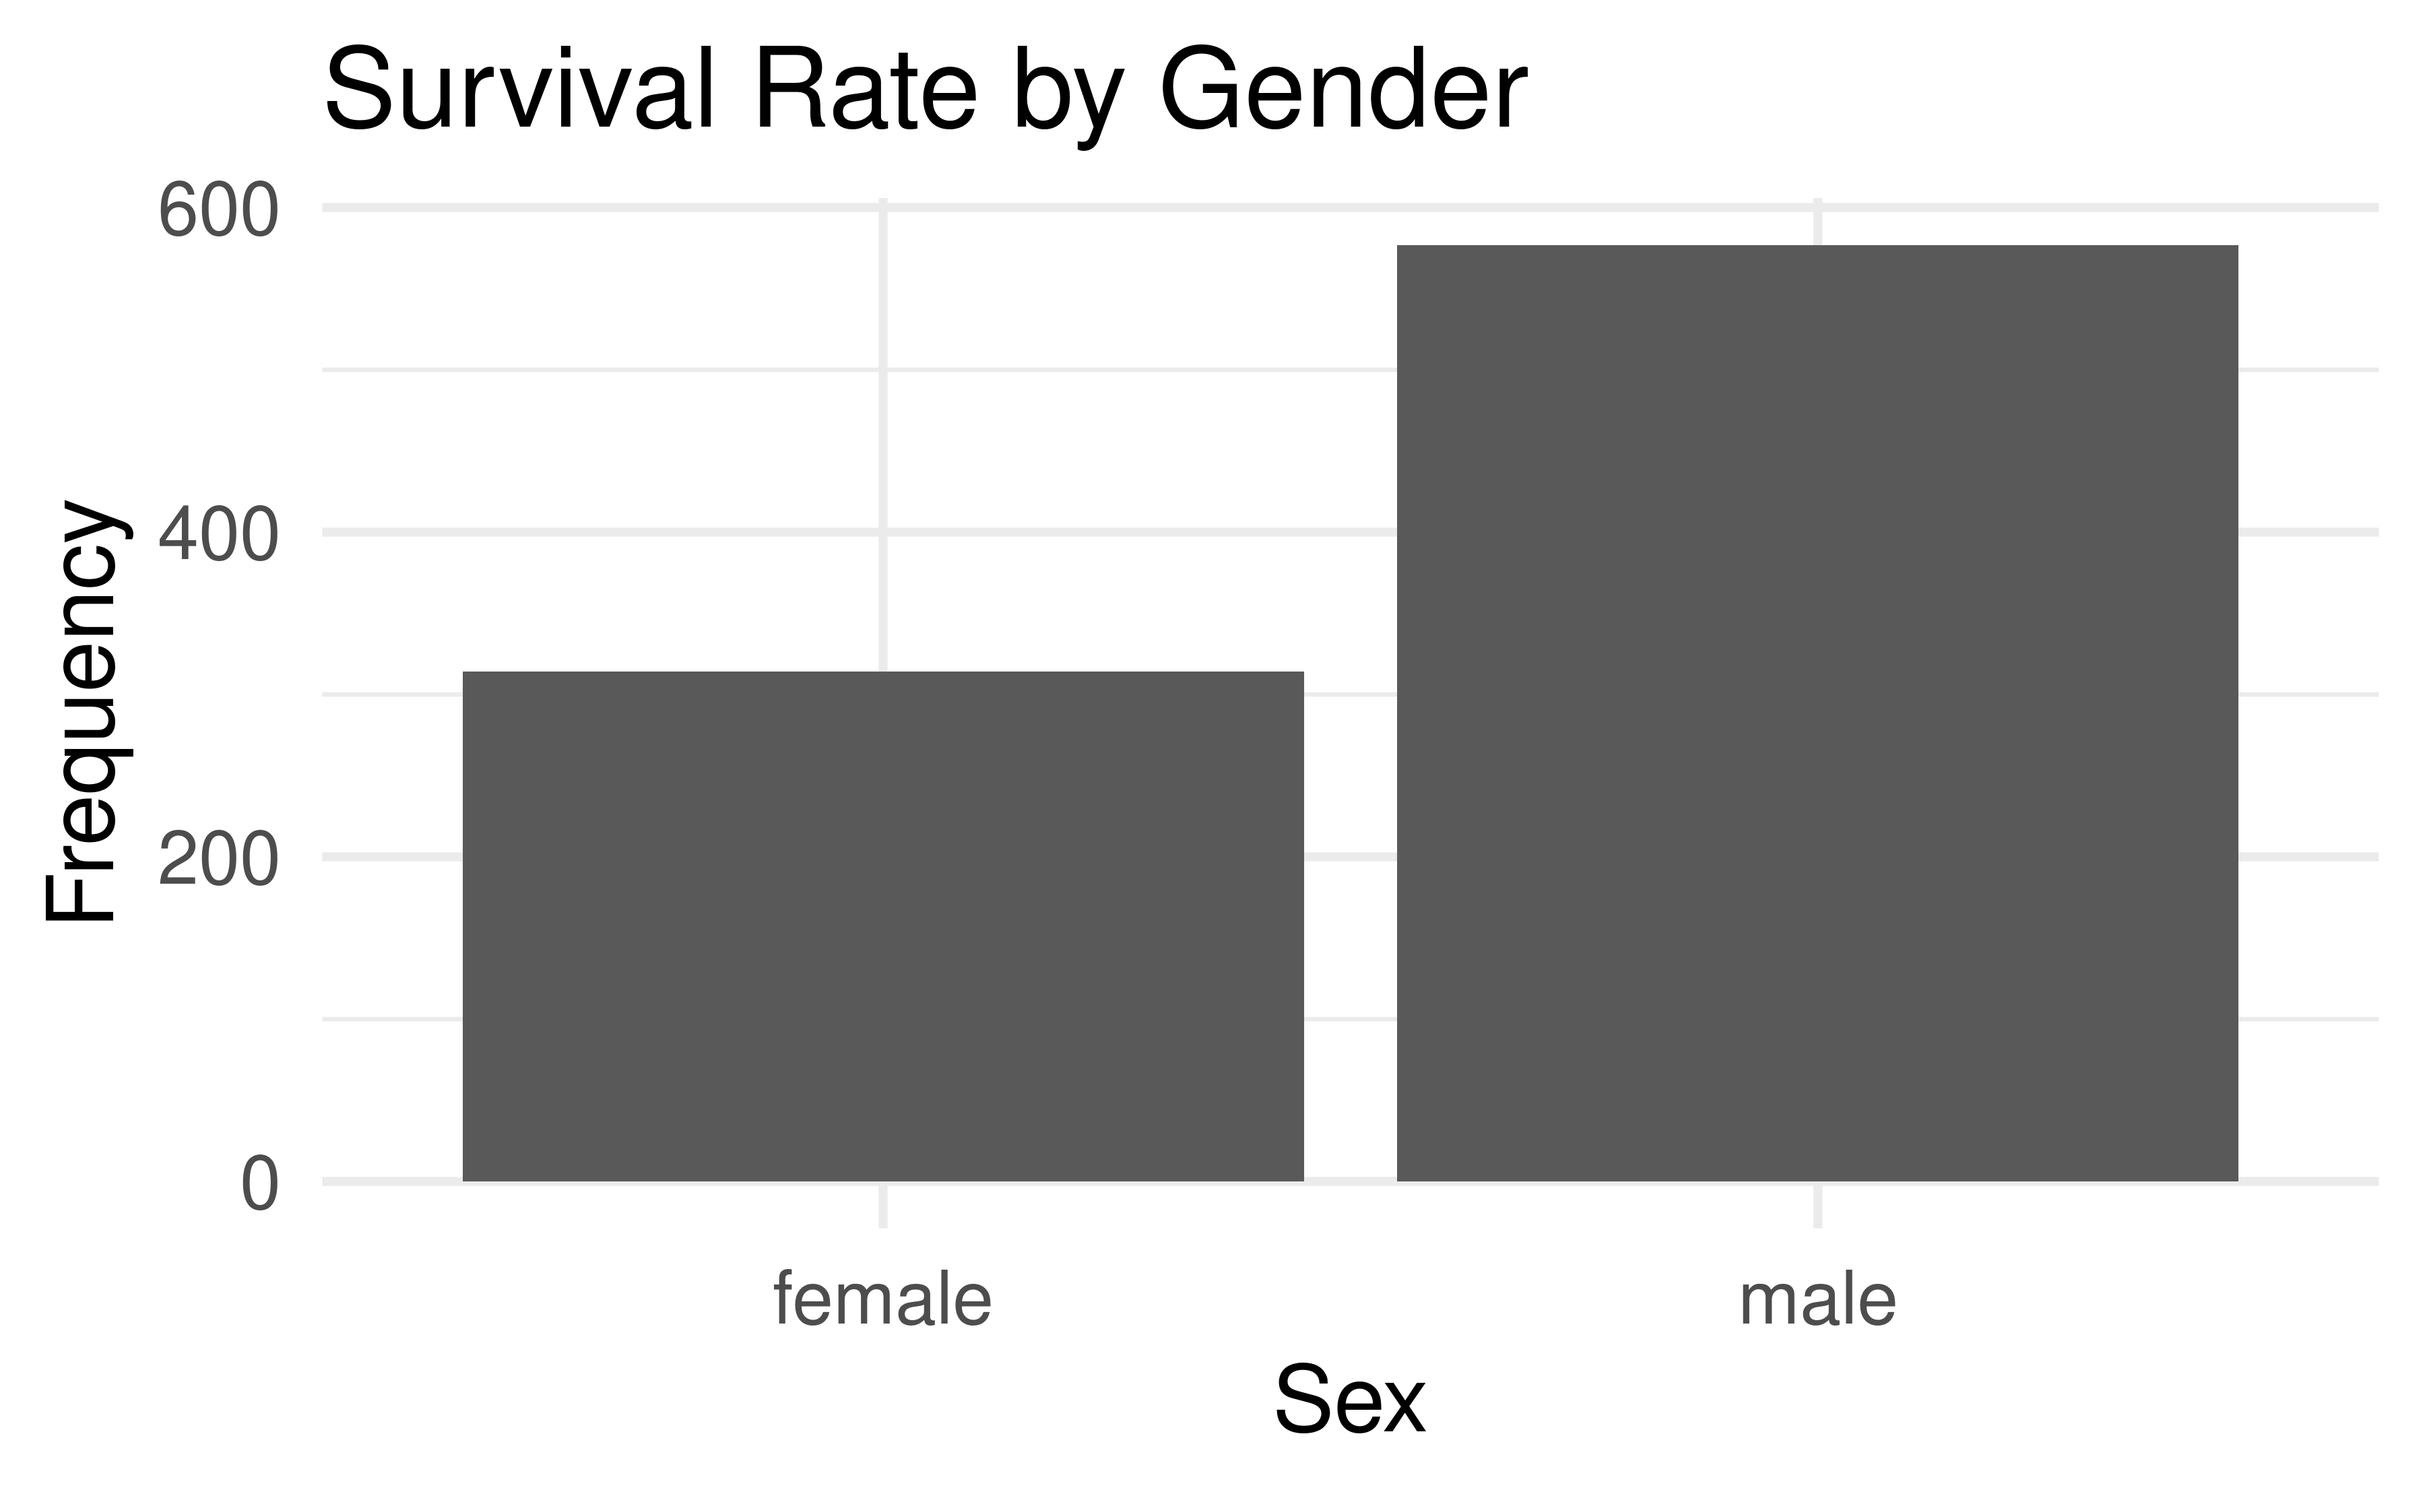
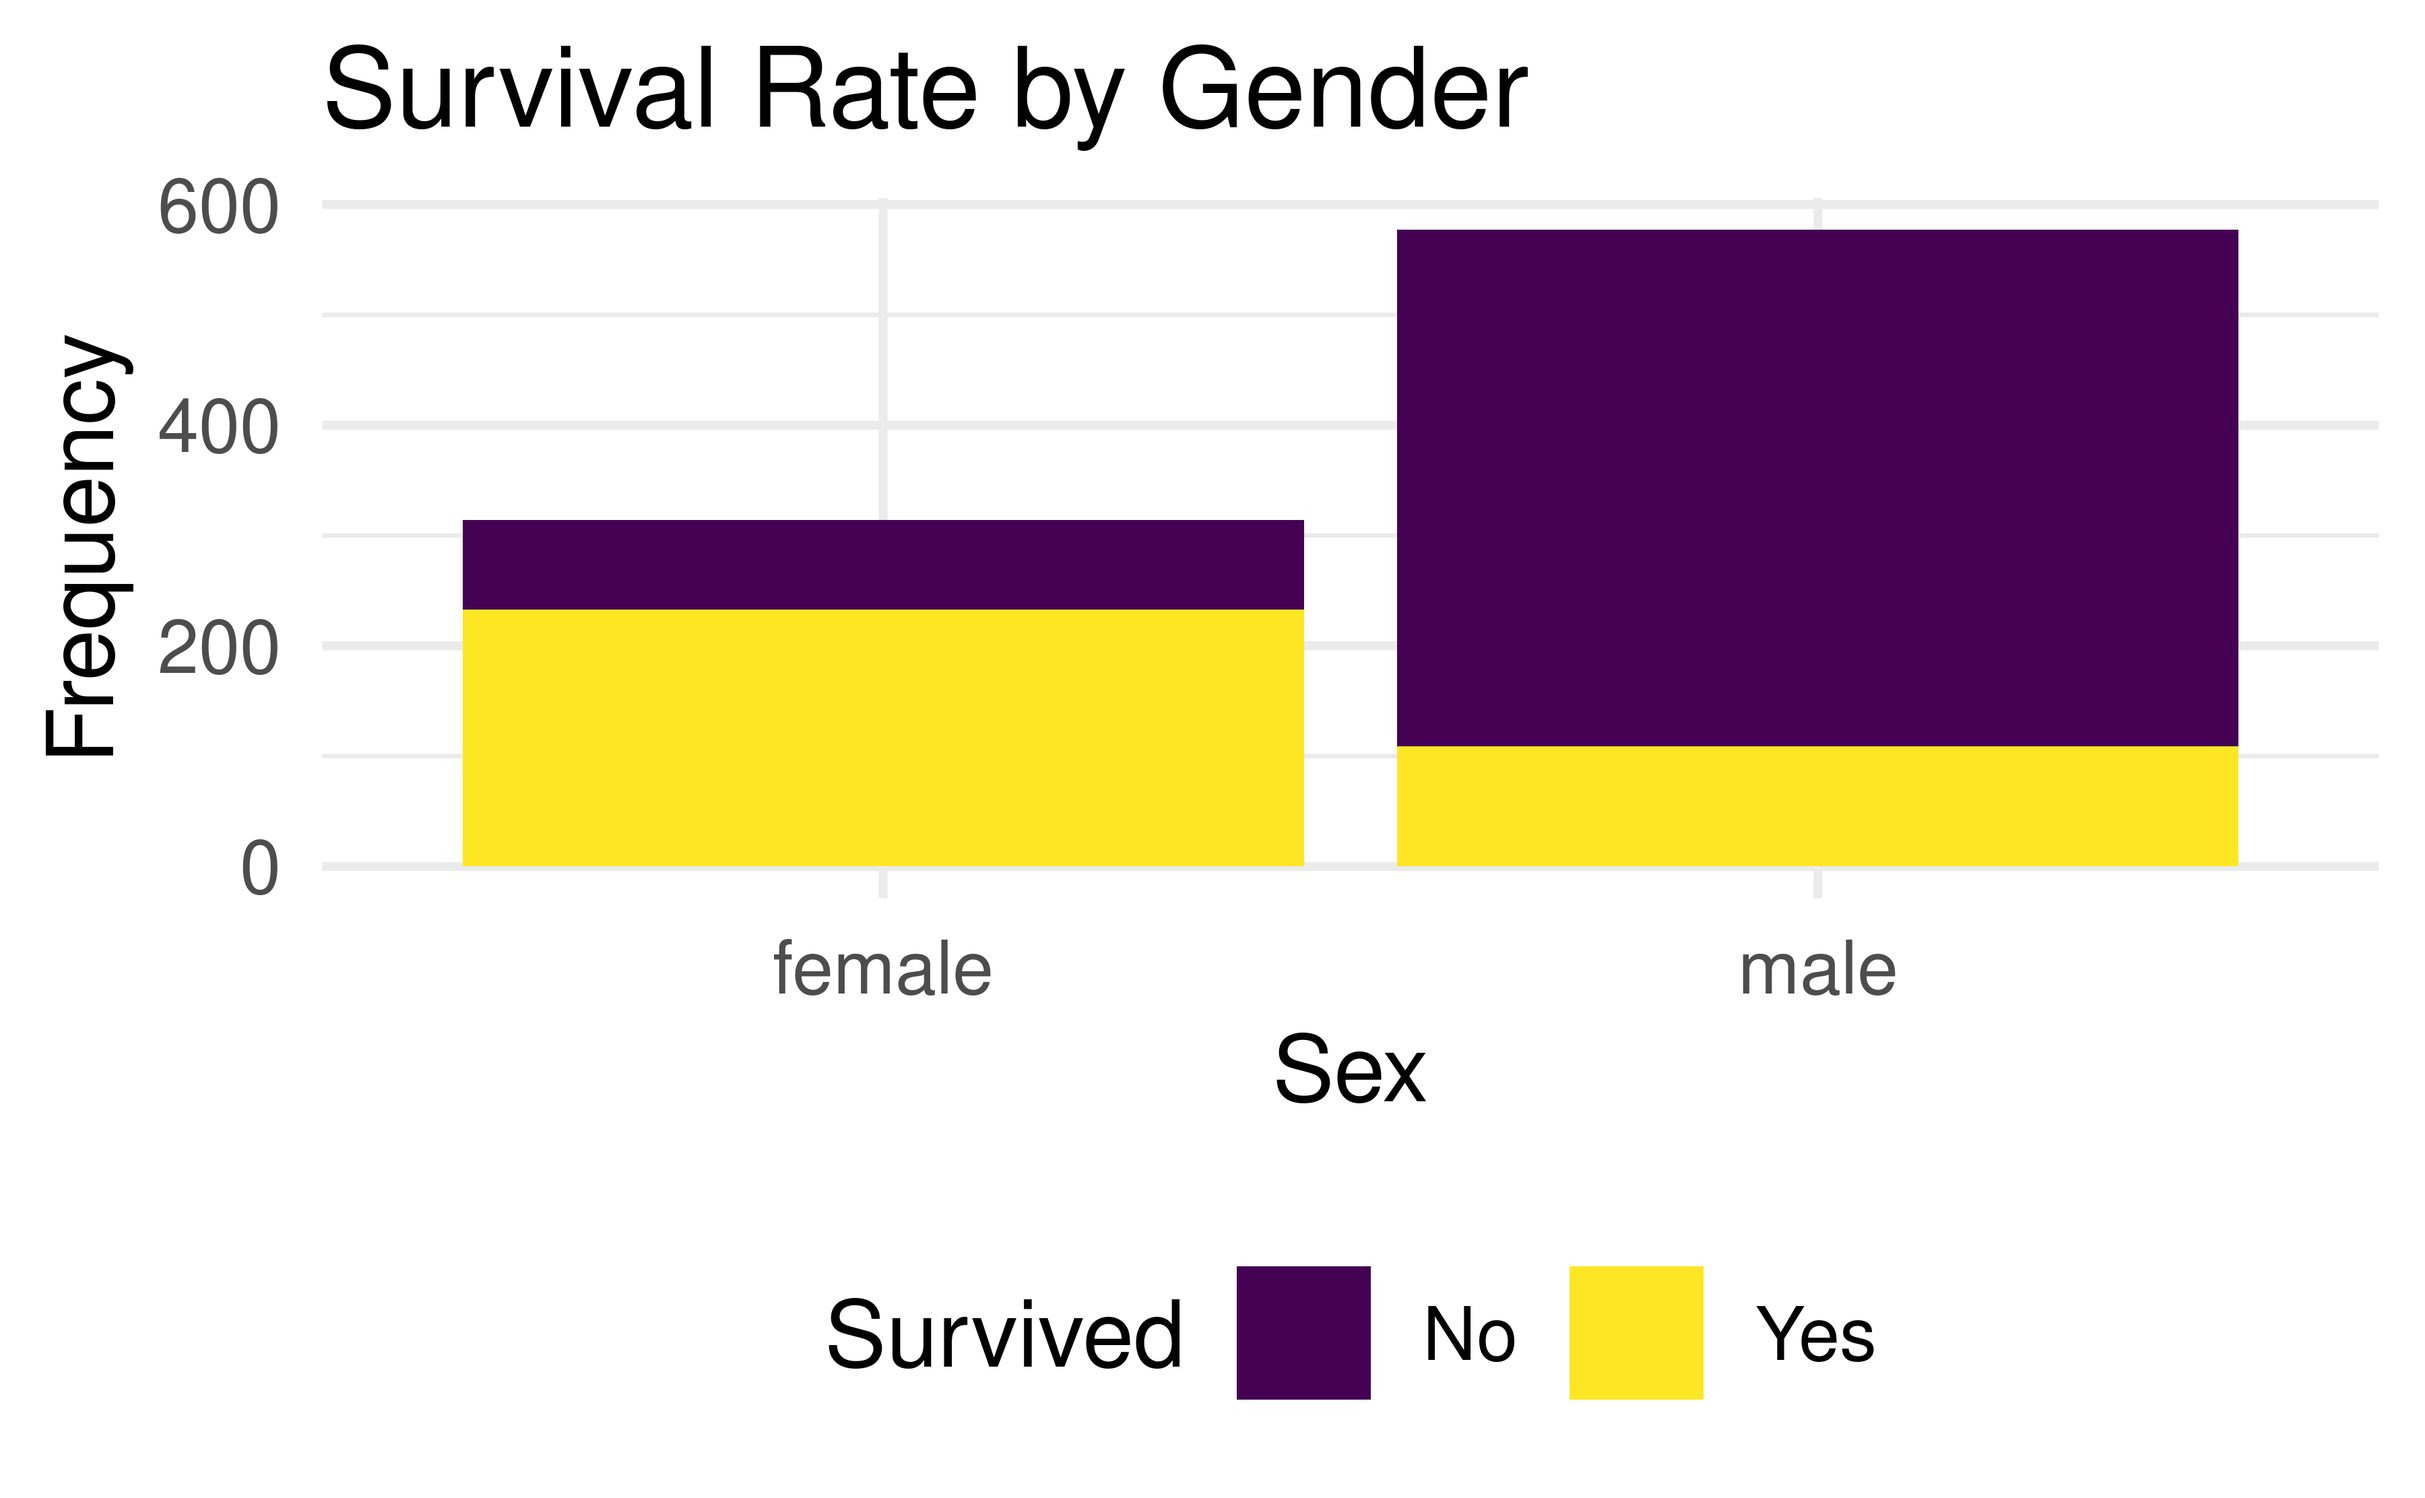
completed exercise 2

diff --git a/presentation/presentation.html b/presentation/presentation.html
@@ -29,10 +29,7 @@ class: center, middle, inverse, title-slide
 
 
 
-<<<<<<< HEAD
-=======
 
->>>>>>> 19048d4cb780cc2e6ddd468eb384f44bbfa50573
 class: center, middle
 
 "Touted as the ultimate in transatlantic travel and said to be “unsinkable”, the Titanic collided with an iceberg on 14 April 1912 on her maiden voyage and sank shortly thereafter on 15 April, killing 1502 out of 2224 passengers and crew." [1]
@@ -103,57 +100,74 @@ class: inverse, middle, center
 ## 2   male 109     0.3187135
 ```
 ]
-<<<<<<< HEAD
-<<<<<<< HEAD
-.pull-right[
-&lt;img src="presentation_files/figure-html/gender-survival-1.png" width="100%" /&gt;
-
-]
-
-<<<<<<< HEAD
-
-
----
-dh
----
-=======
-
-=======
->>>>>>> a68ed0bddeb6762a80dad468589effc6810c68ea
-=======
->>>>>>> 14d5ae8676398abe1406cc191d3840031a373b4d
 ---
 class: inverse, middle, center
 
 # Using xaringan
 
 ---
-<<<<<<< HEAD
-<<<<<<< HEAD
->>>>>>> 19048d4cb780cc2e6ddd468eb384f44bbfa50573
-# Embarked/Class/Fare 
-=======
-<<<<<<< HEAD
->>>>>>> 399fe351851808f29bb8057ee6df844a4070f29b
-
-=======
-=======
-=======
-&gt;&gt;&gt;&gt;&gt;&gt;&gt; 19048d4cb780cc2e6ddd468eb384f44bbfa50573
->>>>>>> a68ed0bddeb6762a80dad468589effc6810c68ea
-=======
->>>>>>> 14d5ae8676398abe1406cc191d3840031a373b4d
 
 
 
 
 
 ---
+class: inverse, middle, center
+# Hypothesis 2: The younger survivals are more than the older survivals 
+---
+The age of a passenger can be considered to be high priority. We take it for granted that people give priority to saving infants and young child when it comes to providing life saving equipment. Beyond that the survival of passengers is highly related to their physical abilities which means that the younger the passenger is the higher possibility is to survive. 
+---
+# visualization
+.pull-right[
+- Use "Age" as the predictor variable(X) and "Frequency" as the outcome variable(Y) displayed in terms of colors showing survivals or not.
+- Create a a new variable called "Age_Range" which groups the ages by scale of 10 so that we can find the survival rate for each age range and come outwith more concrete conclusions.
+]
+
+.pull-left[
+
+```
+## Warning: Removed 177 rows containing non-finite values (stat_bin).
+```
+
+&lt;img src="presentation_files/figure-html/age-survival-1.png" width="100%" /&gt;
+]
+
+---
+
+# Summary
+The proportion of passengers aged between 21-30 years old have the highest probability to survive with 0.246.
+
+
+```
+##   Age_Range  n prop_survival
+## 1      0-10 38   0.111111111
+## 2     11-20 44   0.128654971
+## 3     21-30 84   0.245614035
+## 4     31-40 69   0.201754386
+## 5     41-50 33   0.096491228
+## 6     51-60 17   0.049707602
+## 7     61-70  4   0.011695906
+## 8     71-80  1   0.002923977
+## 9      &lt;NA&gt; 52   0.152046784
+```
+
+---
 # Embarked/Class/Fare 
 
-The class of the passenger can be considered to be a measure of their socio-economic status: based on our knowledge on the Titanic disaster we expect to find that the higher the class of the passenger, the higher their survival rate. 
+The class of the passenger can be considered to be a measure of their socio-economic status: based on our knowledge on the Titanic disaster we expect to find that the higher the class of the passenger, the higher their survival rate.```{r class-survived ,echo=FALSE}
+titanic$Survived &lt;- as.factor(titanic$Survived)
+titanic$Pclass &lt;- as.factor(titanic$Pclass) 
 
-&lt;img src="presentation_files/figure-html/class-survived -1.png" width="80%" /&gt;
+titanic_class &lt;- titanic %&gt;%
+  group_by( Pclass ) %&gt;%
+ count(Survived) %&gt;%
+ mutate(pct = n/sum(n) * 100)
+
+titanic_class %&gt;%
+ggplot(aes(x=Pclass , y = pct ,  fill = Survived)) +
+  geom_bar( position = position_stack(), stat = "identity", width = .7 ) +
+  geom_text(aes(y = pct, label = pct) ,position = position_stack(vjust = 0.5), size = 3.5 )
+```
 
 
 ---
@@ -187,13 +201,6 @@ class: inverse, center, middle
 + G. Bron, graphic artist, used data released the week before by the House of Commons for the visualisation pubblished on 4 May 1912, **three weeks after the Titanic disaster**
 {{content}}
 
-<<<<<<< HEAD
-* The Sphere was a popular British illustrated weekly newspaper, published by the Illustrated London News Group from January 1900 until June 1964. It was dedicated to worldwide reporting on popular issues. On 4 May 1912, only three weeks after the Titanic disaster, it published a chart (Figure 1, page 16) by the graphic artist G. Bron using data released the week before by the House of Commons.
-
-
----
-
-=======
 --
 
 +  Bron’s graph is an early innovation in data display:
@@ -237,9 +244,8 @@ class: inverse, center, middle
 #                  xtabs(Freq ~ Sex + issurvived + Pclass, titanic_freq))
 ```
 ---
->>>>>>> 19048d4cb780cc2e6ddd468eb384f44bbfa50573
 #Resources
-[1] Source: Friendly, M., Symanzik, J., &amp;amp; Onder, O. (2019, February 6). Royal Statistical Society Publications. Royal Statistical Society. Retrieved November 19, 2021, from https://rss.onlinelibrary.wiley.com/doi/full/10.1111/j.1740-9713.2019.01229.x. 
+[1] Source: Friendly, M., Symanzik, J., &amp;amp; Onder, O. (2019, February 6). Royal Statistical Society Publications. Royal Statistical Society. Retrieved November 19, 2021, from https://rss.onlinelibrary.wiley.com/doi/full/10.1111/j.1740-9713.2019.01229.x.
     </textarea>
 <style data-target="print-only">@media screen {.remark-slide-container{display:block;}.remark-slide-scaler{box-shadow:none;}}</style>
 <script src="https://remarkjs.com/downloads/remark-latest.min.js"></script>

diff --git a/proposal/proposal.md b/proposal/proposal.md
@@ -89,7 +89,7 @@ gender of passengers is defined as binary.
 
 ``` r
 titanic %>%
-  ggplot(mapping = aes(x = Sex, fill = Survived)) +
+  ggplot(aes(x = Sex, fill = Survived)) +
   geom_bar() +
   theme_minimal() +
   scale_fill_viridis_d(name = "Survived", labels = c("No", "Yes" )) +
